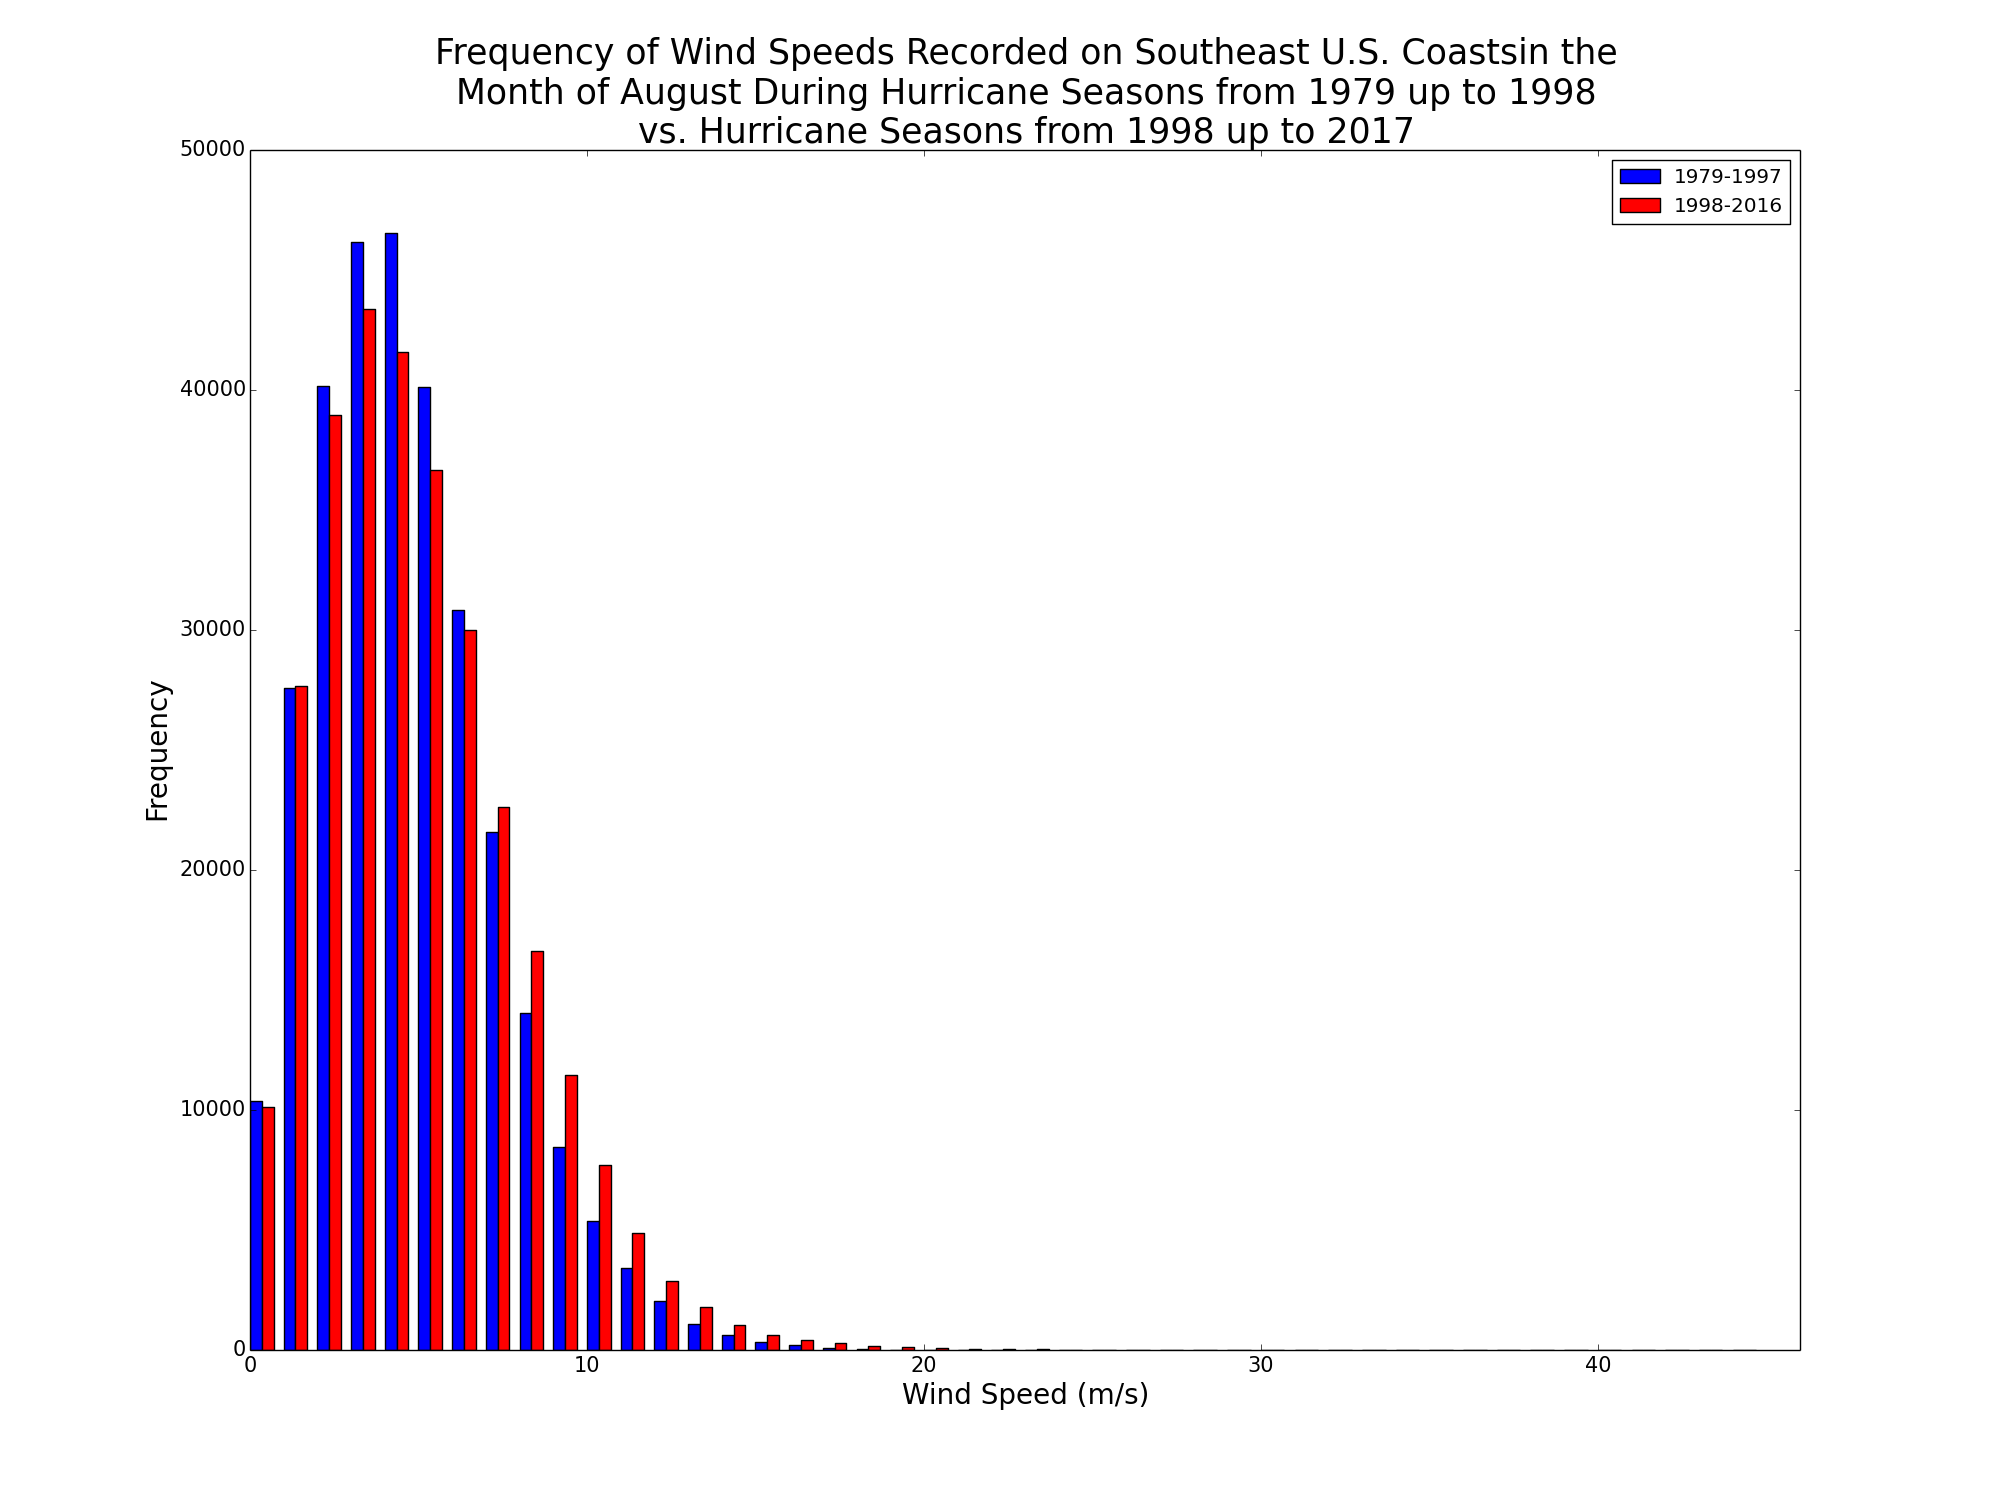
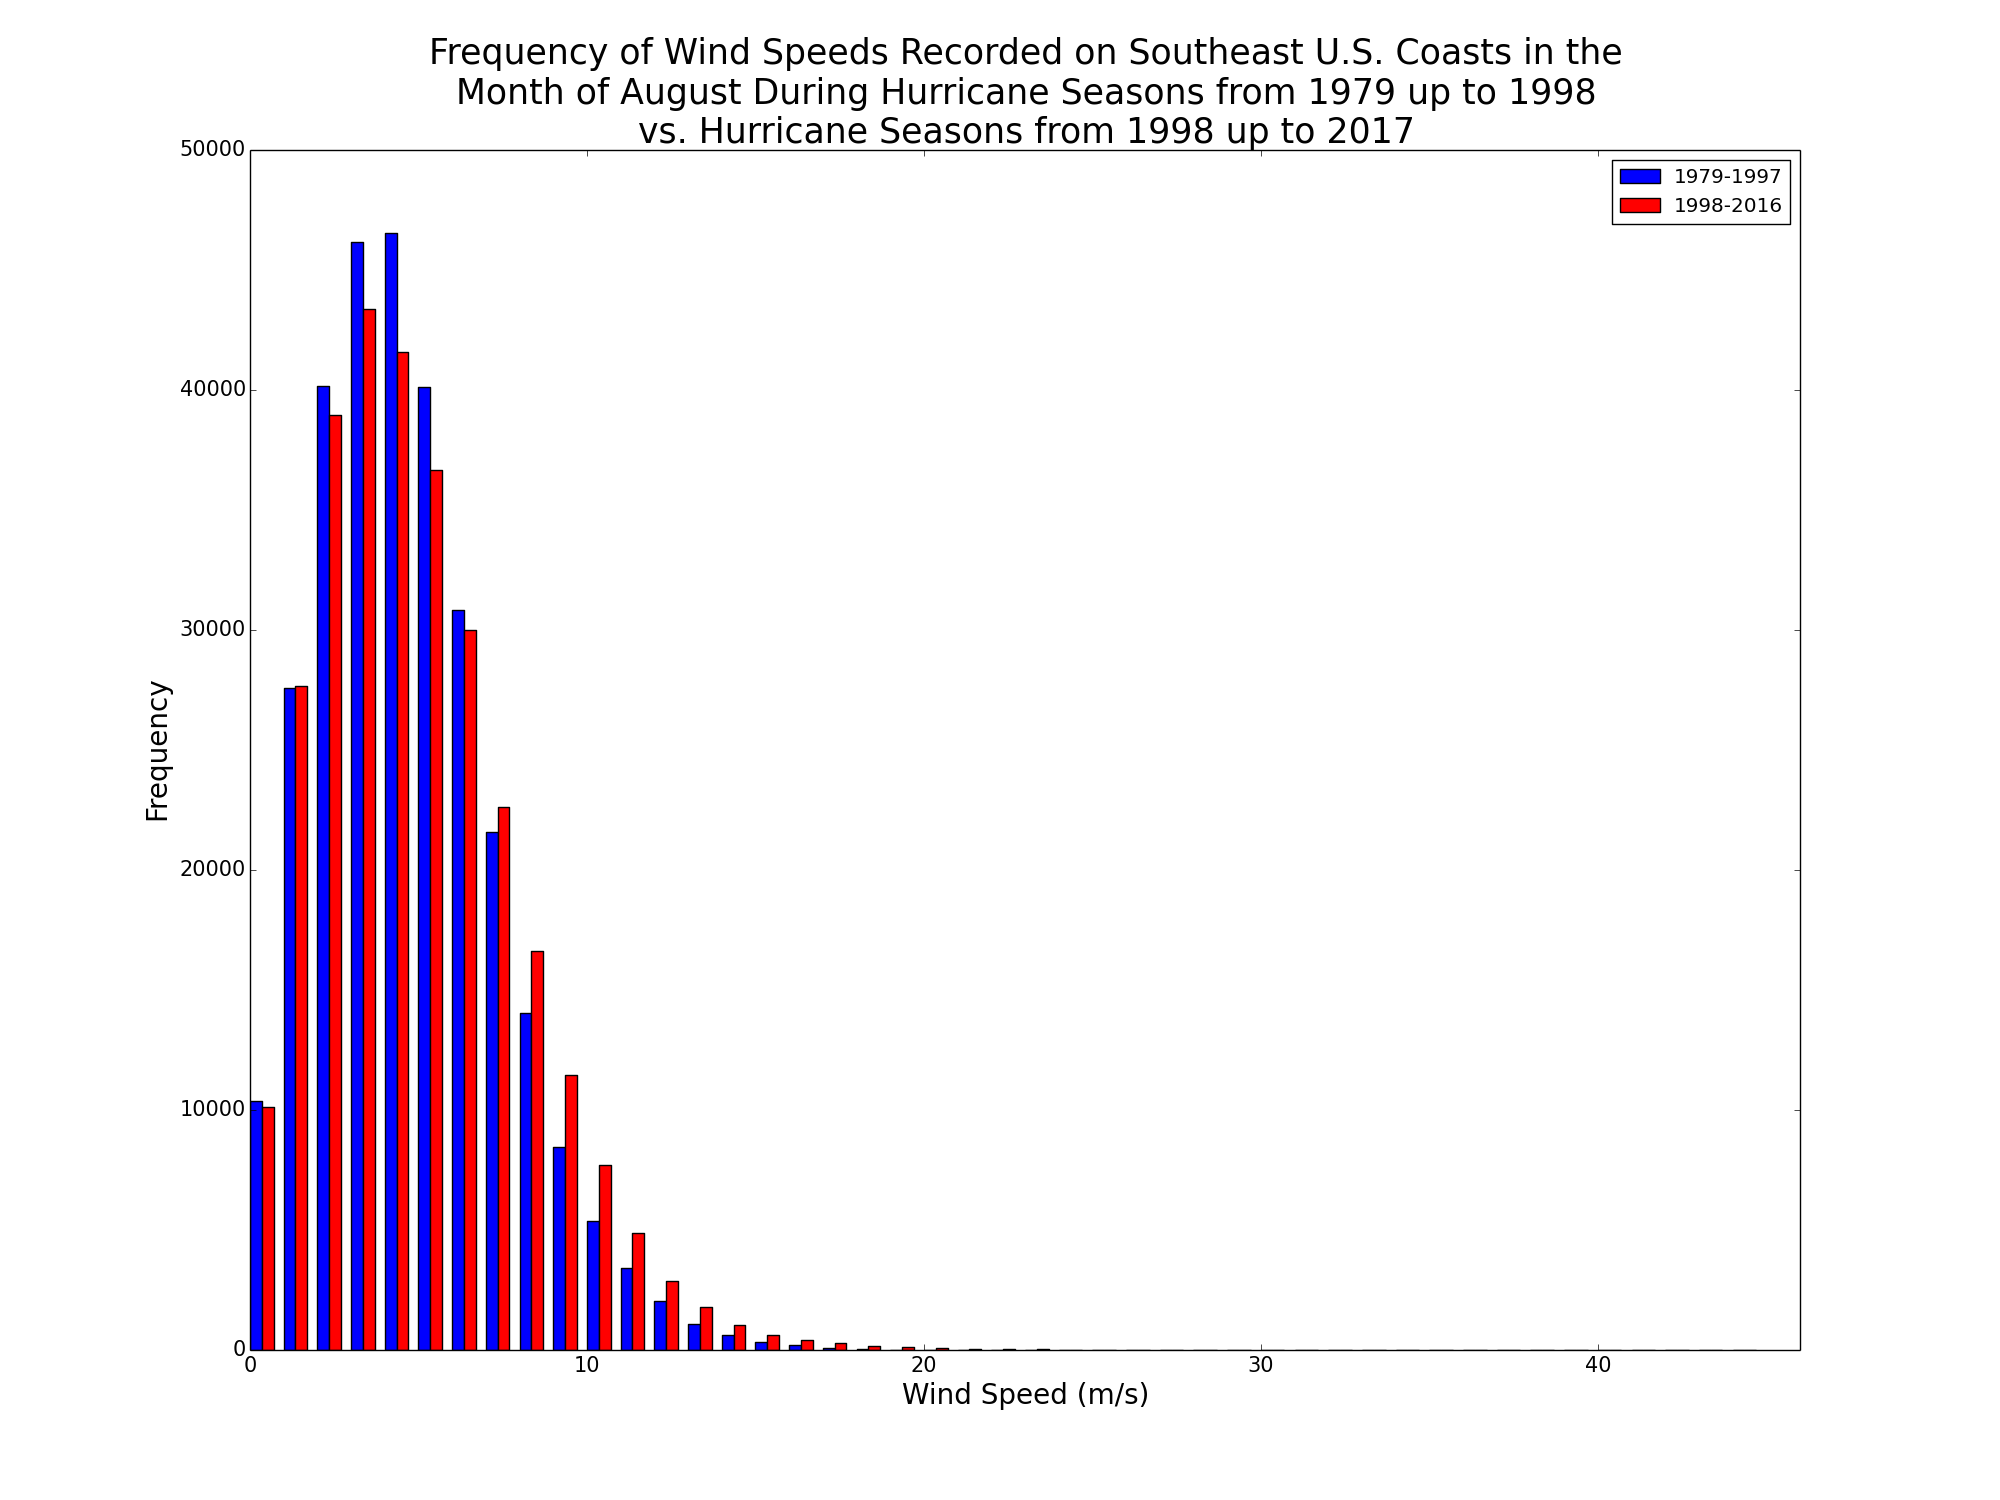
Fixed font sizes on figures yet again

Changed region(s): [[0.217, 0.0307, 0.806, 0.0613]]

diff --git a/DLM_stats.py b/DLM_stats.py
@@ -685,7 +685,7 @@ plt.bar(np.arange(len(wind_speed_freq_diff)), wind_speed_freq_diff)
 plt.xlim(xmax = max_wind_speed + 1)
 plt.ylabel('Frequency Difference')
 plt.xlabel('Wind Speed (m/s)')
-plt.title('Difference Between Frequency of Wind Speeds Recorded on\n' + location_names[region][1] +
+plt.title('xDifference Between Frequency of Wind Speeds Recorded on\n' + location_names[region][1] +
           ' During Hurricane Seasons from 1979 up to\n1998 and During Hurricane ' +
           'Seasons from 1998 up to 2017')
 plt.savefig('Figures/' + location_names[region][0]  + '/Wind_Speeds_' + location_names[region][0] + '_Diff_Between_79-97_and_98-16_Histogram.png')
@@ -778,7 +778,7 @@ ax.set_xlim(xmax = max_wind_speed + 1)
 #    ax.set_ylim(ymax = 120000)
 ax.set_xlabel('Wind Speed (m/s)')
 ax.set_ylabel('Frequency')
-ax.set_title('Frequency of Wind Speeds Recorded on ' + location_names[region][1] + 'in the\nMonth ' +
+ax.set_title('Frequency of Wind Speeds Recorded on ' + location_names[region][1] + ' in the\nMonth ' +
              'of August During Hurricane Seasons from 1979 up to 1998\nvs. Hurricane ' +
              'Seasons from 1998 up to 2017')
 ax.legend()
@@ -865,7 +865,7 @@ plt.xlim(xmax = max_wind_speed + 1)
 #    plt.ylim(ymax = 9000, ymin = -7000)
 plt.ylabel('Frequency Difference')
 plt.xlabel('Wind Speed (m/s)')
-plt.title('Difference Between Frequency of Wind Speeds Recorded on ' + location_names[region][1] + '\nin Late ' +
+plt.title('xDifference Between Frequency of Wind Speeds Recorded on ' + location_names[region][1] + '\nin Late ' +
           'May, June, and July During Hurricane Seasons from 1979 up to 1998\nand During Hurricane ' +
           'Seasons from 1998 up to 2017')
 plt.savefig('Figures/' + location_names[region][0]  + '/Wind_Speeds_' + location_names[region][0] + '_Diff_Between_79-97_and_98-16_EHS_Histogram.png')
@@ -879,7 +879,7 @@ plt.xlim(xmax = max_wind_speed + 1)
 #    plt.ylim(ymax = 9000, ymin = -7000)
 plt.ylabel('Frequency Difference')
 plt.xlabel('Wind Speed (m/s)')
-plt.title('Difference Between Frequency of Wind Speeds Recorded on ' + location_names[region][1] + '\nin August ' +
+plt.title('xDifference Between Frequency of Wind Speeds Recorded on ' + location_names[region][1] + '\nin August ' +
           'and September During Hurricane Seasons from 1979 up to 1998\nand During Hurricane ' +
           'Seasons from 1998 up to 2017')
 plt.savefig('Figures/' + location_names[region][0]  + '/Wind_Speeds_' + location_names[region][0] + '_Diff_Between_79-97_and_98-16_MHS_Histogram.png')
@@ -893,7 +893,7 @@ plt.xlim(xmax = max_wind_speed + 1)
 #    plt.ylim(ymax = 9000, ymin = -7000)
 plt.ylabel('Frequency Difference')
 plt.xlabel('Wind Speed (m/s)')
-plt.title('Difference Between Frequency of Wind Speeds Recorded on ' + location_names[region][1] + '\nin the Month ' +
+plt.title('xDifference Between Frequency of Wind Speeds Recorded on ' + location_names[region][1] + '\nin the Month ' +
           'of August During Hurricane Seasons from 1979 up to 1998\nand During Hurricane ' +
           'Seasons from 1998 up to 2017')
 plt.savefig('Figures/' + location_names[region][0]  + '/Wind_Speeds_' + location_names[region][0] + '_Diff_Between_79-97_and_98-16_Aug_Histogram.png')
@@ -907,7 +907,7 @@ plt.xlim(xmax = max_wind_speed + 1)
 #    plt.ylim(ymax = 9000, ymin = -7000)
 plt.ylabel('Frequency Difference')
 plt.xlabel('Wind Speed (m/s)')
-plt.title('Difference Between Frequency of Wind Speeds Recorded on ' + location_names[region][1] + '\nin the Month ' +
+plt.title('xDifference Between Frequency of Wind Speeds Recorded on ' + location_names[region][1] + '\nin the Month ' +
           'of September During Hurricane Seasons from 1979 up to 1998\nand During Hurricane ' +
           'Seasons from 1998 up to 2017')
 plt.savefig('Figures/' + location_names[region][0]  + '/Wind_Speeds_' + location_names[region][0] + '_Diff_Between_79-97_and_98-16_Sep_Histogram.png')
@@ -921,7 +921,7 @@ plt.xlim(xmax = max_wind_speed + 1)
 #    plt.ylim(ymax = 9000, ymin = -7000)
 plt.ylabel('Frequency Difference')
 plt.xlabel('Wind Speed (m/s)')
-plt.title('Difference Between Frequency of Wind Speeds Recorded on ' + location_names[region][1] + '\nin October ' +
+plt.title('xDifference Between Frequency of Wind Speeds Recorded on ' + location_names[region][1] + '\nin October ' +
           'and November During Hurricane Seasons from 1979 up to 1998\nand During Hurricane ' +
           'Seasons from 1998 up to 2017')
 plt.savefig('Figures/' + location_names[region][0]  + '/Wind_Speeds_' + location_names[region][0] + '_Diff_Between_79-97_and_98-16_LHS_Histogram.png')
